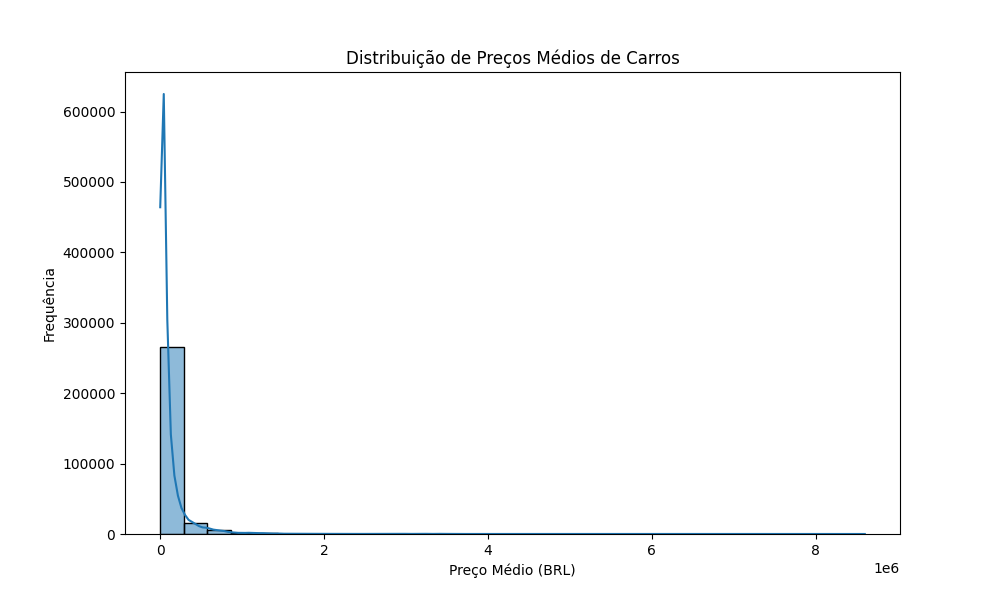
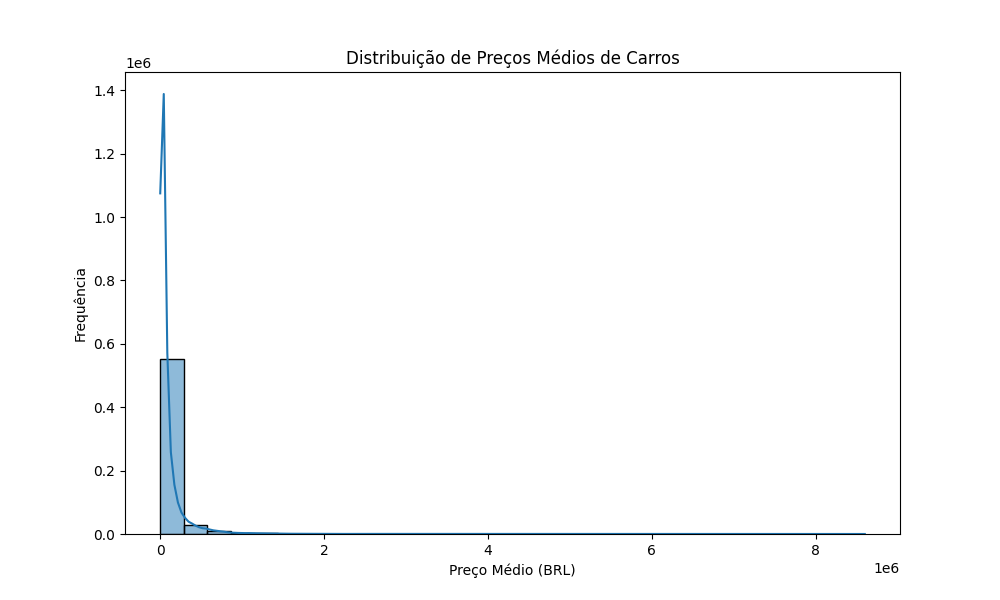
criando html para a geração de graficos

diff --git a/templates/visualize.html b/templates/visualize.html
@@ -41,7 +41,7 @@
     <!-- Gráfico de Distribuição de Preços -->
     <h2>Distribuição de Preços</h2>
     <div>
-        <img src="{{ plot_path }}" alt="Gráfico de Distribuição de Preços Médios">
+        <img src="/static/plot.png" alt="Gráfico de Preço Médio">
     </div>
 
     <hr>
@@ -59,5 +59,14 @@
     <div>
         <a href="{{ url_for('train_model', filename=filename) }}" class="btn btn-success">Treinar Modelo</a>
     </div>
+
+    <hr>
+
+    <!-- Link para a página de gráficos -->
+    <h2>Explorar Gráficos</h2>
+    <div>
+        <a href="{{ url_for('plot_data', filename=filename) }}" class="btn btn-info">Ver Gráficos</a>
+    </div>
 </body>
 </html>
+

diff --git a/templates/visualize_graficos.html b/templates/visualize_graficos.html
@@ -1,0 +1,25 @@
+<!doctype html>
+<html lang="en">
+<head>
+    <title>Gráficos Adicionais</title>
+</head>
+<body>
+    <h1>Gráficos Adicionais</h1>
+
+
+
+    <hr>
+
+    <h2>Gráfico de Regressão</h2>
+    <div>
+        <img src="/static/regression_plot.png" alt="Gráfico de Regressão">
+    </div>
+
+    <hr>
+
+    <!-- Link de retorno -->
+    <div>
+        <a href="{{ url_for('visualize_data', filename=filename) }}" class="btn btn-secondary">Voltar</a>
+    </div>
+</body>
+</html>

diff --git a/app.py b/app.py
@@ -1,3 +1,4 @@
+import numpy as np
 from flask import Flask, render_template, request, redirect, url_for
 import os
 import pandas as pd
@@ -37,46 +38,98 @@ def upload_file():
             return redirect(url_for('visualize_data', filename=file.filename))
     return render_template("index.html")
 
+
 # Rota para visualização dos dados e análises
 @app.route("/visualize/<filename>")
 def visualize_data(filename):
     filepath = os.path.join(app.config['UPLOAD_FOLDER'], filename)
     df = pd.read_csv(filepath)
-    
+
+    # Limpeza de dados
+    print("Antes da limpeza:")
+    print(df.isna().sum())  # Exibir a contagem de valores NaN
+    df = df.drop(["fipe_code", "authentication", "gear", "year_model"], axis=1, errors="ignore")
+    df = df.drop_duplicates()
+
+    # Criar coluna de datas
+    mapeamento = {'January': "1", 'February': "2", 'March': "3", 'April': "4", 'May': "5", 'June': "6",
+                  'July': "7", 'August': "8", 'September': "9", 'October': "10", 'November': "11", 'December': "12"}
+    if "month_of_reference" in df.columns and "year_of_reference" in df.columns:
+        df["month_of_reference"] = df["month_of_reference"].map(mapeamento)
+        df["year_of_reference"] = df["year_of_reference"].astype(str)
+        df["date"] = df["month_of_reference"].str.cat(df["year_of_reference"], sep="/")
+        df["date"] = pd.to_datetime(df["date"], format="%m/%Y").dt.strftime('%Y/%m')
+        df = df.drop(columns=["month_of_reference", "year_of_reference"])
+
+    print("Depois da limpeza:")
+    print(df.isna().sum())  # Verificar novamente os valores NaN
+
     # Transformação das variáveis categóricas para numéricas (Label Encoding)
     df, label_encoders = apply_label_encoding(df)
-    
+
     # Gráfico de distribuição
     plt.figure(figsize=(10, 6))
-    sns.histplot(df['avg_price_brl'], bins=30, kde=True)
-    plt.title("Distribuição de Preços Médios de Carros")
-    plt.xlabel("Preço Médio (BRL)")
-    plt.ylabel("Frequência")
-    plot_path = os.path.join("static", "plot.png")
-    plt.savefig(plot_path)
+    if 'avg_price_brl' in df.columns:
+        sns.histplot(df['avg_price_brl'], bins=30, kde=True)
+        plt.title("Distribuição de Preços Médios de Carros")
+        plt.xlabel("Preço Médio (BRL)")
+        plt.ylabel("Frequência")
+        plot_path = os.path.join("static", "plot.png")
+        plt.savefig(plot_path)
+        plt.close()  # Fecha o gráfico após salvar
+    else:
+        plot_path = None
+
+    # Salvar dataset limpo
+    clean_filepath = os.path.join(app.config['UPLOAD_FOLDER'], f"clean_{filename}")
+    df.to_csv(clean_filepath, index=False)
 
     df_html = df.head().to_html(classes='table table-striped')
     return render_template("visualize.html", data=df_html, filename=filename, plot_path=plot_path)
 
+
+
 # Rota para exibir gráficos
 @app.route("/plot/<filename>")
-def plot_data(filename):
-    filepath = os.path.join(app.config['UPLOAD_FOLDER'], filename)
-    df = pd.read_csv(filepath)
-    
+def plot_data(filename, mcolors=None):
+    clean_filepath = os.path.join(app.config['UPLOAD_FOLDER'], f"clean_{filename}")
+    df = pd.read_csv(clean_filepath)
+
     # Transformação das variáveis categóricas para numéricas (Label Encoding)
     df, label_encoders = apply_label_encoding(df)
-    
-    # Gráfico de distribuição
-    plt.figure(figsize=(10, 6))
-    sns.histplot(df['avg_price_brl'], bins=30, kde=True)
-    plt.title("Distribuição de Preços Médios de Carros")
-    plt.xlabel("Preço Médio (BRL)")
-    plt.ylabel("Frequência")
-    plot_path = os.path.join("static", "plot.png")
-    plt.savefig(plot_path)
-    plt.close()  # Fecha o gráfico após salvar
-    return render_template("visualize.html", plot_path=plot_path, filename=filename)
+
+    if 'avg_price_brl' in df.columns and 'date' in df.columns:
+        # Prepara os dados
+        df['date'] = pd.to_datetime(df['date'], errors='coerce')
+        df = df.dropna(subset=['date', 'avg_price_brl'])
+        medias_data = df.groupby("date")["avg_price_brl"].mean()
+        datas = medias_data.index.astype(str)
+        valores = np.arange(len(datas))
+
+        # Criar gráfico
+        plt.figure(figsize=(12, 7))
+        sns.scatterplot(x=datas, y=medias_data, c=valores, cmap="viridis")
+
+        coeficientes = np.polyfit(valores, medias_data, 1)
+        regressao = np.polyval(coeficientes, valores)
+        plt.plot(datas, regressao, color="red", label="Regressão Linear")
+
+        # Configurações do gráfico
+        plt.title("Preço Médio dos Carros por Mês")
+        plt.ylabel("Preço Médio")
+        plt.xlabel("Data")
+        plt.xticks(rotation=45)
+
+        # Salvar o gráfico
+        plot_path = os.path.join("static", "regression_plot.png")
+        plt.savefig(plot_path)
+        plt.close()
+
+        return render_template("visualize_graficos.html", plot_path=plot_path, filename=filename)
+    else:
+        return "<p>Colunas necessárias não encontradas no dataset.</p>"
+
+
 
 # Rota para configurar e treinar o modelo
 @app.route("/train/<filename>", methods=['GET', 'POST'])
@@ -156,6 +209,54 @@ def make_prediction(filename):
         plt.savefig(prediction_plot_path)
 
     return render_template("predictions.html", prediction=prediction, filename=filename, prediction_plot_path=prediction_plot_path)
+
+@app.route("/select_car/<filename>", methods=['GET', 'POST'])
+def select_car(filename):
+    filepath = os.path.join(app.config['UPLOAD_FOLDER'], filename)
+    df = pd.read_csv(filepath)
+
+    # Limpar nomes das colunas e remover espaços nos valores
+    df.columns = df.columns.str.strip()  # Remover espaços em torno dos nomes das colunas
+    for col in df.select_dtypes(include=["object"]).columns:
+        df[col] = df[col].str.strip()  # Remover espaços nos valores de strings apenas
+
+    selected_cars_html = None
+    columns = df.columns.tolist()  # Lista de colunas
+
+    if request.method == 'POST':
+        # Obter filtros preenchidos no formulário
+        filters = {col: request.form.get(col).strip() for col in columns if request.form.get(col)}
+
+        if filters:
+            # Debug: Imprimir os filtros recebidos
+            print("Filtros recebidos:", filters)
+
+            try:
+                # Aplicar os filtros manualmente para evitar erros no query
+                filtered_df = df.copy()
+                for col, value in filters.items():
+                    filtered_df = filtered_df[filtered_df[col].astype(str) == value]
+
+                # Debug: Verificar resultados
+                print("DataFrame filtrado:\n", filtered_df)
+
+                # Gerar HTML dos resultados
+                if not filtered_df.empty:
+                    selected_cars_html = filtered_df.to_html(classes='table table-striped', index=False)
+                else:
+                    selected_cars_html = "<p>Nenhum resultado encontrado com os filtros fornecidos.</p>"
+            except Exception as e:
+                print("Erro ao aplicar os filtros:", e)
+                selected_cars_html = f"<p>Erro ao aplicar filtros: {e}</p>"
+
+    return render_template(
+        "select_car.html",
+        columns=columns,
+        selected_cars=selected_cars_html,
+    )
+
+
+
 
 if __name__ == "__main__":
     os.makedirs(app.config['UPLOAD_FOLDER'], exist_ok=True)
